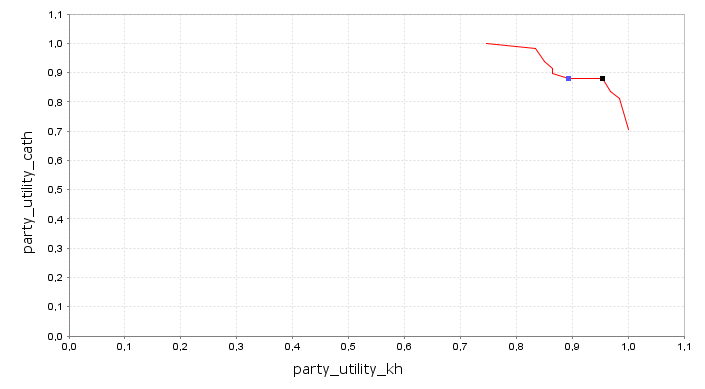
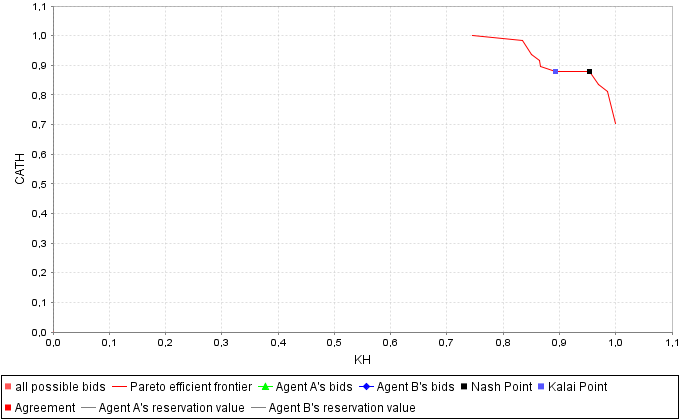
Performance of simple agents

diff --git a/report/tex/domainanalysis.tex b/report/tex/domainanalysis.tex
@@ -38,4 +38,32 @@ The optimal frontier for this problem is shown in Figure \ref{fig:pareto}.
 
 \section{Performance of simple agents}
 
-1b) Analyze the performance of the agent \texttt{SimpleAgent} in the party domain playing against itself. Is a Pareto optimal outcome reached? Explain your answer. Also explain why it obtains the resulting outcome that it does. Do the same for \texttt{Boulware} playing vs. \texttt{Conceder}.
+Now, the behavior of simple agents in the party domain will be examined.
+First, the agent \texttt{SimpleAgent} plays both sides of the negotiation.
+The resulting negotiation trace is shown in Figure \ref{fig:simpleagent}.
+\begin{figure}
+\centering
+\includegraphics{simpleagent.png}
+\caption{Negotiation trace of the agent \texttt{SimpleAgent} playing against itself in the party domain.}
+\label{fig:simpleagent}
+\end{figure}
+Although the agent is able to reach an agreement within the deadline, the outcome is far from optimal.
+This can be seen in the Figure \ref{fig:simpleagent}, as the final bid does not lie on the Pareto-optimal frontier.
+This happens because the \texttt{SimpleAgent} places bids randomly.
+Given the large amount of possible combinations, the chance that this produces Pareto-optimal solutions is very small.
+
+Next, the \texttt{Boulware} and \texttt{Conceder} agents are used to negotiate in the party domain.
+The negotiation trace is shown in Figure \ref{fig:boulwareconceder}.
+\begin{figure}
+\centering
+\includegraphics{boulwareconceder.png}
+\caption{Trace of the negotiation between the \texttt{Boulware} and \texttt{Conceder} agents in the party domain.}
+\label{fig:boulwareconceder}
+\end{figure}
+In contrast to the negotiation with \texttt{SimpleAgent}, the negotiation between the \texttt{Boulware} and \texttt{Conceder} agents does lead to a Pareto-optimal outcome.
+The outcome is consistently in favor of the \texttt{Boulware} agent.
+This can be explained as follows.
+The \texttt{Conceder} agent works by offering bids that are decreasing in its own utility.
+The \texttt{Boulware} agent, on the other hand, will make silent moves until the deadline is close.
+Only then will it start conceding.
+However, long before the deadline, the \texttt{Conceder} will have made an offer that has a utility of 1 for the \texttt{Boulware} agent, which will always be accepted.
